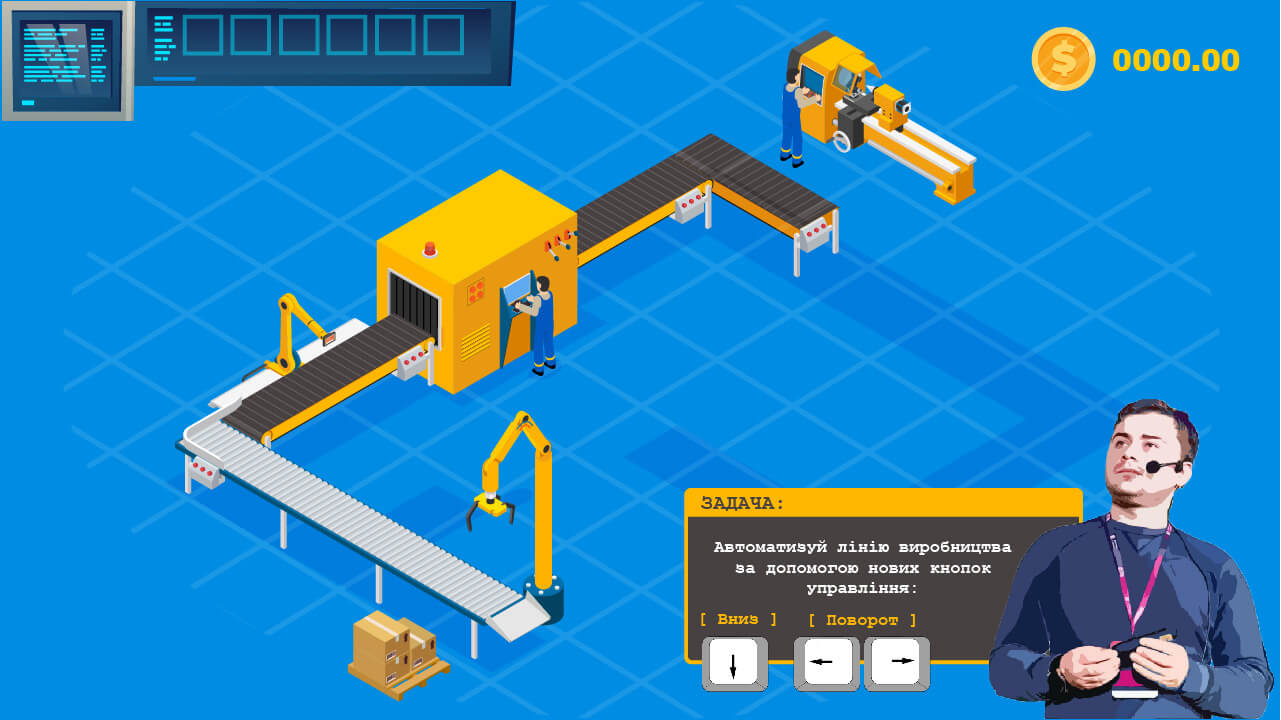
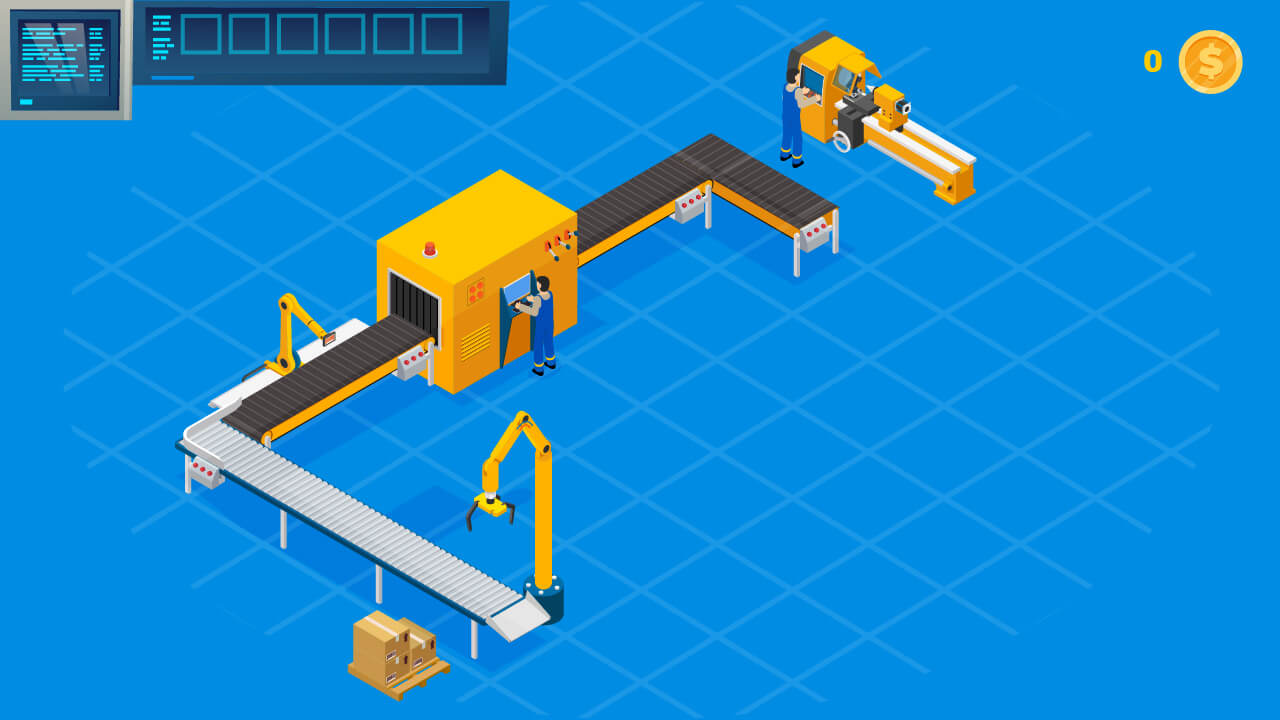
added restart-option & changed binary file name & fixed animation with text-window

diff --git a/src/level02.c b/src/level02.c
@@ -12,6 +12,12 @@ void update_2() {
     float delta_time = (SDL_GetTicks() - last_frame_time) / 1000.0f;
     last_frame_time = SDL_GetTicks();
 
+    if (box.x < 700) {
+        if (text.x > 600) {
+            text.x -= 350 * delta_time;
+        }
+    }
+
     if (start) {
         if (step == 0) {
             if (box.y < 571) {
@@ -48,6 +54,7 @@ void update_2() {
         if (step == 3) {
             if (box.y < 170 && box.x < 900) {
                 if (correct_2[4] == real[4]) {
+                    step = 4;
                     if (correct_2[5] == real[5]) {
                         box.x += 110 * delta_time;
                         box.y += 64 * delta_time;
@@ -56,7 +63,19 @@ void update_2() {
             }
         }
 
-        if (box.x > 650 && worker.x < 780) {
+        for (int i = 0; i < 6; ++i) {
+            if (correct_2[i] != real[i]) {
+                if (restart == 1) {
+                    count = 0, start = 0, step = 0;
+                    for (int j = 0; j < 100; ++j) real[j] = 0;
+                    box.x = 470, box.y = 510, box.width = 50, box.height = 50;
+                    restart = 0;
+                }
+            }
+        }
+
+        if (box.x > 650 && worker.x < 780 && step == 4) {
+            finish = 1;
             worker.x += 73 * delta_time;
             worker.y -= 43 * delta_time;
         }
@@ -96,7 +115,41 @@ void render_2() {
         };
 
         SDL_RenderCopy(renderer, texture_box, NULL, &box_rect);
-        SDL_RenderPresent(renderer);
+        //SDL_RenderPresent(renderer);
     }
 
+    SDL_Surface* machine_ready = IMG_Load("resource/img/machine_ready.png");
+    SDL_Texture* texture_machine_ready_1 = SDL_CreateTextureFromSurface(renderer, machine_ready);
+
+    SDL_Rect machine_rect = {351,150,250,250};
+
+    SDL_RenderCopy(renderer, texture_machine_ready_1, NULL, &machine_rect);
+
+    SDL_Surface* success02 = IMG_Load("resource/img/success02.png");
+    SDL_Texture* texture_success02 = SDL_CreateTextureFromSurface(renderer, success02);
+
+    SDL_Rect person_rect = {
+            (int)success.x,
+            (int)success.y,
+            (int)success.width,
+            (int)success.height
+    };
+
+    SDL_Surface* text02 = IMG_Load("resource/img/text02.png");
+    SDL_Texture* texture_text02 = SDL_CreateTextureFromSurface(renderer, text02);
+
+    if(!finish)  {
+        SDL_Rect text_rect = {
+                (int)text.x,
+                (int)text.y,
+                (int)text.width,
+                (int)text.height
+        };
+        texture_text02 = SDL_CreateTextureFromSurface(renderer, text02);
+        SDL_RenderCopy(renderer, texture_text02, NULL, &text_rect);
+    }
+
+    if (finish)
+        SDL_RenderCopy(renderer, texture_success02, NULL, &person_rect);
+    SDL_RenderPresent(renderer);
 }

diff --git a/src/main.c b/src/main.c
@@ -9,6 +9,7 @@ int game_is_running = FALSE;
 int last_frame_time = 0;
 int count = 0;
 int start = 0;
+int restart = 0;
 
 int initialize_window(void) {
     if (SDL_Init(SDL_INIT_EVERYTHING) != 0) {
@@ -47,6 +48,16 @@ void setup(t_rectangle box_init, t_rectangle worker_init, const char *background
     worker.width = worker_init.width;
     worker.height = worker_init.height;
 
+    text.x = 1500;
+    text.y = 335;
+    text.width = 684;
+    text.height = 405;
+
+    success.x = 600;
+    success.y = 335;
+    success.width = 684;
+    success.height = 405;
+
     image = IMG_Load(background_filename);
     texture = SDL_CreateTextureFromSurface(renderer, image);
 
@@ -66,6 +77,7 @@ void setup(t_rectangle box_init, t_rectangle worker_init, const char *background
 void process_input() {
     SDL_Event event;
     SDL_PollEvent(&event);
+    //SDL_WaitEvent(&event);
 
     switch (event.type) {
         case SDL_QUIT:
@@ -82,6 +94,9 @@ void process_input() {
                 case SDLK_LEFT:
                     real[count] = event.key.keysym.sym;
                     ++count;
+                    break;
+                case SDLK_r:
+                    restart = 1;
                     break;
                 case SDLK_ESCAPE:
                     game_is_running = FALSE;

diff --git a/src/level01.c b/src/level01.c
@@ -17,10 +17,14 @@ void update_1() {
                 box.x += 90 * delta_time;
                 box.y -= 52 * delta_time;
             }
+        } else if (restart == 1) {
+            count = 0, start = 0;
+            for (int i = 0; i < 100; ++i) real[i] = 0;
+            restart = 0;
         }
     }
 
-    if (box.x > 760 && worker.y > 250) {
+    if (box.x > 760 && worker.y > 250 && restart == 0) {
         worker.x -= 60 * delta_time;
         worker.y -= 35 * delta_time;
     }

diff --git a/inc/header.h b/inc/header.h
@@ -21,7 +21,7 @@ typedef struct {
     float width;
     float height;
 } t_rectangle;
-t_rectangle box, worker;
+t_rectangle box, worker, text, success;
 
 SDL_Window* window;
 SDL_Renderer* renderer;
@@ -36,8 +36,11 @@ int last_frame_time;
 int real[100];
 int count;
 int start;
+int restart;
+int finish;
 
 void render_copy_icons(int n, const SDL_Rect *icons);
+void run_level(int level);
 void update_1();
 void render_1();
 void update_2();
